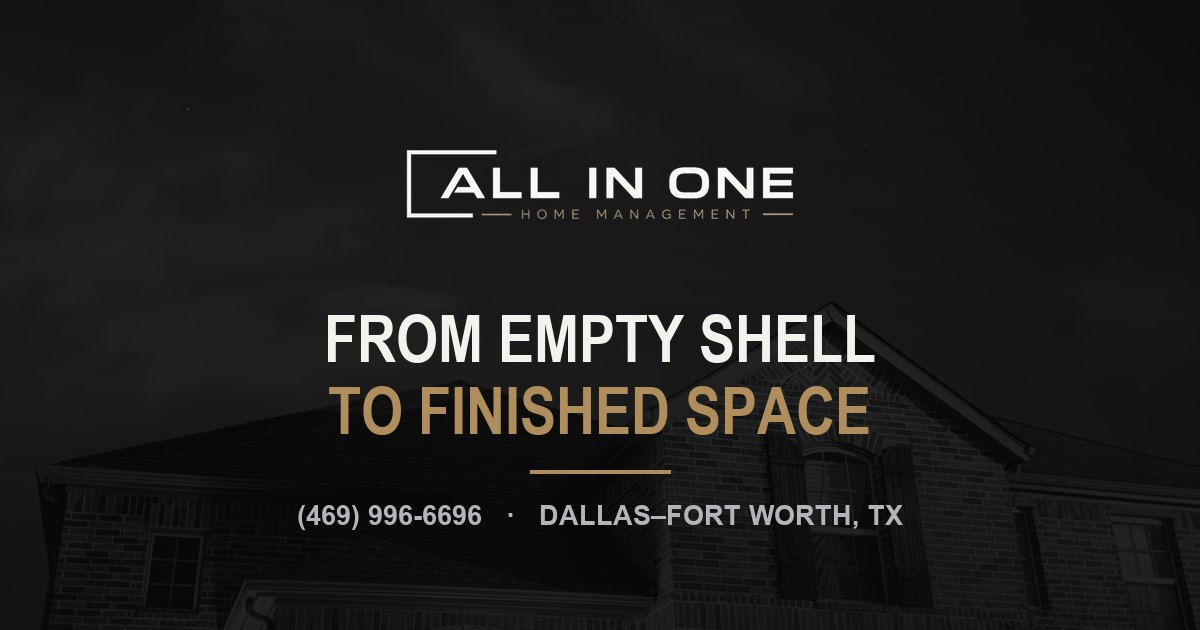
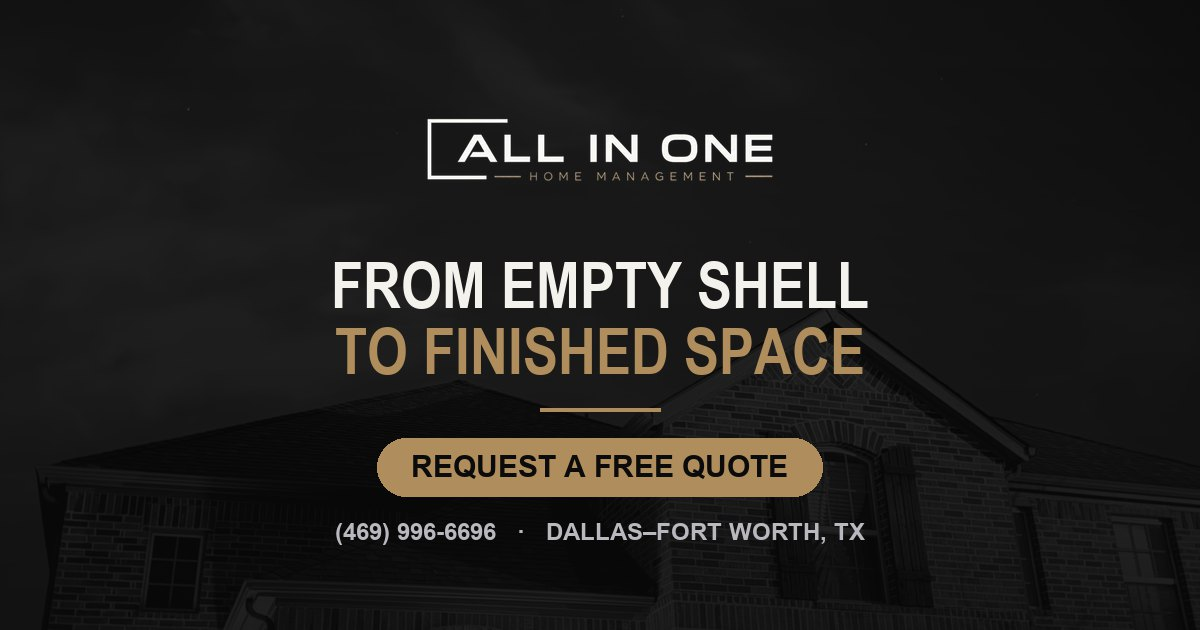
Polish link preview: add CTA to OG image, shorten title
- Add "Request a Free Quote" CTA button to og.jpg
- Trim title/og:title to 56 chars (was 63) for search-result display

Changed region(s): [[0.2467, 0.3921, 0.7708, 0.8746], [0.3392, 0.181, 0.6783, 0.3619]]

diff --git a/app/layout.jsx b/app/layout.jsx
@@ -19,8 +19,7 @@ const sans = Inter({
 export const metadata = {
   metadataBase: new URL(site.url),
   title: {
-    default:
-      "All In One Home Management | Commercial Buildouts & Renovation in DFW",
+    default: "All In One Home Management | Commercial Buildouts in DFW",
     template: "%s | All In One Home Management",
   },
   description:
@@ -41,7 +40,7 @@ export const metadata = {
     locale: "en_US",
     url: site.url,
     siteName: site.name,
-    title: "All In One Home Management | From Empty Shell to Finished Space",
+    title: "All In One Home Management | Commercial Buildouts in DFW",
     description:
       "Commercial buildouts, investor remodels, concrete, roofing, and turnkey renovation projects across Dallas–Fort Worth.",
     images: [
@@ -55,7 +54,7 @@ export const metadata = {
   },
   twitter: {
     card: "summary_large_image",
-    title: "All In One Home Management | From Empty Shell to Finished Space",
+    title: "All In One Home Management | Commercial Buildouts in DFW",
     description:
       "Commercial buildouts, investor remodels, concrete, roofing, and turnkey renovation across Dallas–Fort Worth.",
     images: ["/og.jpg"],
